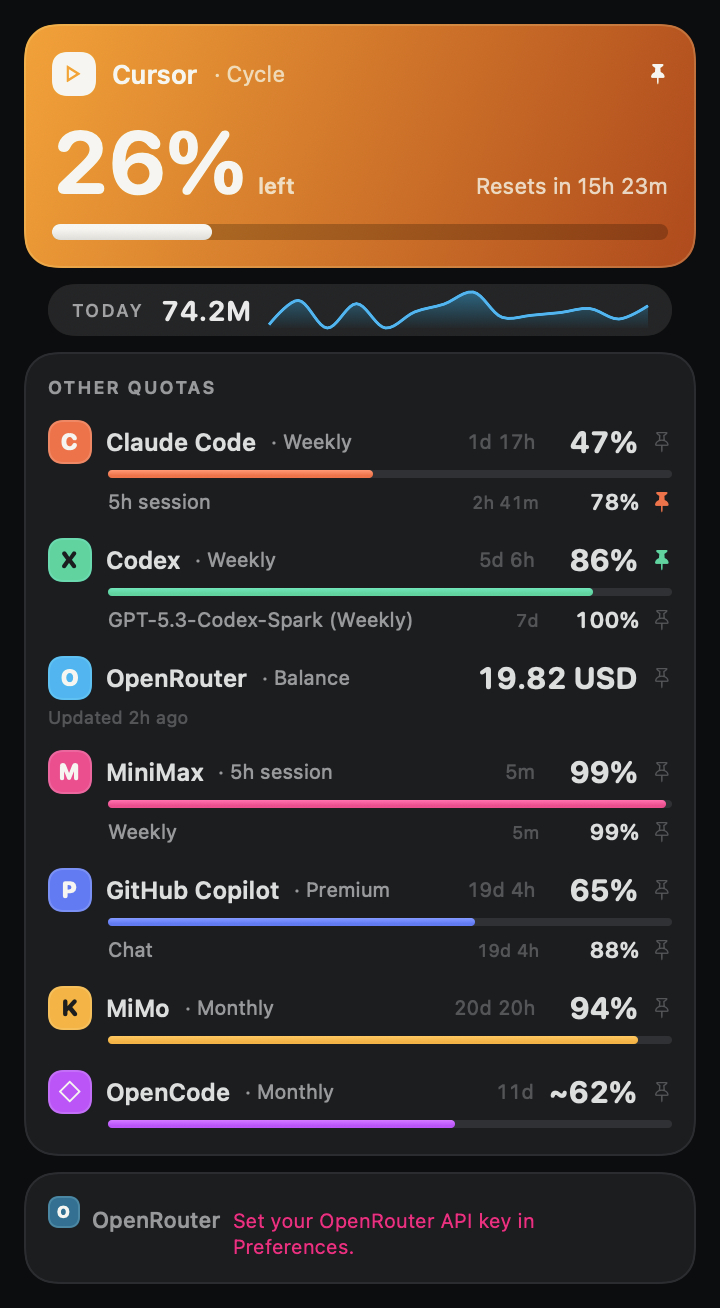
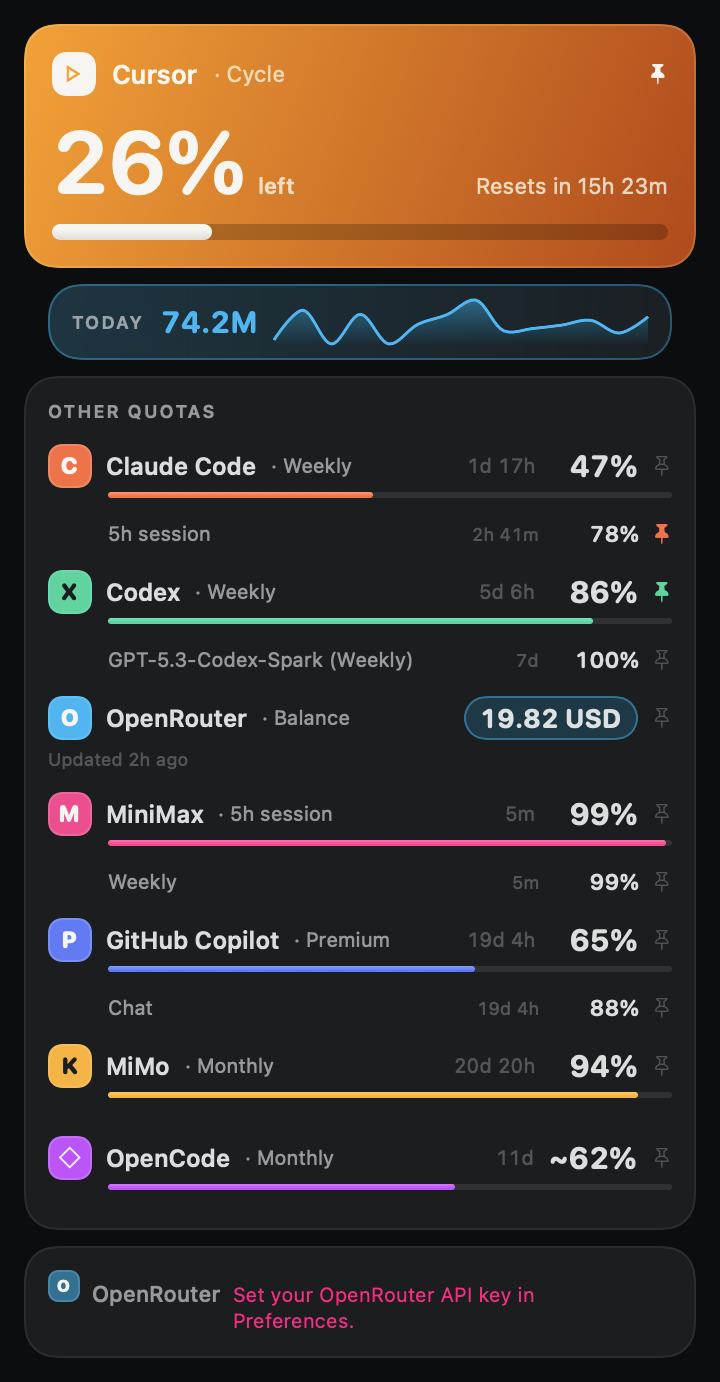
feat(ui): medidores nativos onde o nativo ganha, e polimento do popover
Passe de "parar de reinventar", decidido por imagem e não por princípio. Duas
sondas renderizaram cada medidor à mão ao lado do Gauge nativo pelos dois
caminhos de desenho do app (ImageRenderer, que faz os PNGs e a barra de menu, e
NSHostingView, que é a janela viva).

Trocados:
- ProgressRing vira Gauge .accessoryCircularCapacity — desenha nos dois
  caminhos, respeita .tint(), traz animação e acessibilidade de graça. A cor do
  streak passa de .orange (do sistema) para Theme.accent: o Gauge deriva o
  trilho da própria cor, e com laranja ele saía MARROM, cor que a paleta não
  tem.
- SparklineView vira Swift Charts — era um gráfico de linha montado com Path ao
  lado de um framework de gráficos já importado no alvo.
- RingGauge.swift apagado: código morto, sem nenhum call site.

Mantidos à mão, com motivo: os estilos LINEARES do Gauge não desenham sob
ImageRenderer (sai o retângulo com símbolo de proibido), ignoram .tint() no
AppKit vivo e ignoram .frame(height:). Isso derruba a cor de identidade por
provedor, as três alturas de barra e o trilho preto do bloco-herói. Ficam
QuotaCapsuleBar, ShareBar e o tracinho vertical do notch.

Polimento do popover:
- a faixa "Hoje" deixa o vidro e vira objeto declarado (charcoal + lavagem e
  fio Volt Cyan), igual nos dois mundos — sob render ela virava uma pastilha
  cinza;
- a barra de cada linha fica mais fina e colada na linha primária (ar
  assimétrico: 2pt acima, 8pt abaixo), acabando com a dúvida de a quem ela
  pertence;
[…]

diff --git a/Sources/OkTally/UI/PopoverView.swift b/Sources/OkTally/UI/PopoverView.swift
@@ -152,17 +152,38 @@ struct PopoverContentView: View {
             // Cronológico: hoje é o último elemento.
             let today = totals.last?.tokens ?? 0
             if today > 0 {
+                let shape = RoundedRectangle(cornerRadius: Theme.Radius.medium, style: .continuous)
                 HStack(spacing: Theme.Space.sm) {
                     SectionHeader(L("Hoje"))
                     Text(TokenAnalytics.compactTokens(today))
-                        .font(.system(size: 14, weight: .bold, design: .rounded))
+                        .font(.system(size: 15, weight: .bold, design: .rounded))
                         .monospacedDigit()
+                        .foregroundStyle(Theme.accent)
                     DailyTokensAreaChart(points: totals, color: Theme.accent)
-                        .frame(height: 18)
+                        .frame(height: 22)
                 }
                 .padding(.horizontal, Theme.Space.md)
-                .padding(.vertical, Theme.Space.xs)
-                .glassChrome()
+                .padding(.vertical, Theme.Space.sm)
+                // Charcoal + fio de Volt Cyan, e NÃO vidro. A faixa era a única peça do
+                // popover que mudava de identidade entre os dois mundos: viva ela era
+                // vidro, sob `ImageRenderer` o vidro cai no material e ela virava uma
+                // pastilha CINZA — do tamanho de um botão, sem cor, no meio de um
+                // dashboard de acento neon. E o próprio comentário do `Theme` já admitia
+                // que ela é a exceção do vidro por carregar número e gráfico, ou seja:
+                // conteúdo, não cromo. Aqui ela é um objeto declarado, idêntico nos dois
+                // mundos: fundo do mesmo degrau dos cards, lavagem ciano dando direção da
+                // esquerda para a direita e uma borda neon fina que a separa do fundo sem
+                // virar moldura.
+                // Ordem importa: o `.background` mais EXTERNO é o que fica mais atrás,
+                // então a lavagem ciano vem primeiro (colada no conteúdo) e o charcoal
+                // opaco por baixo dela. Invertido, o opaco cobriria a lavagem.
+                .background(
+                    shape.fill(LinearGradient(
+                        colors: [Theme.accent.opacity(0.16), Theme.accent.opacity(0.02)],
+                        startPoint: .leading, endPoint: .trailing))
+                )
+                .background(shape.fill(Theme.surface()))
+                .overlay(shape.strokeBorder(Theme.accent.opacity(0.38)))
                 .padding(.horizontal, Theme.Space.md)
             }
         }
@@ -397,7 +418,12 @@ private struct ProviderQuotaRow: View {
     var body: some View {
         let primary = windows.first
         let remaining = primary.flatMap { QuotaPresentation.remainingFraction($0.shape) }
-        VStack(alignment: .leading, spacing: 3) {
+        // `spacing: 0` com paddings explícitos, e não um espaçamento único: o ritmo
+        // vertical da linha é ASSIMÉTRICO de propósito (ver a barra abaixo), e um
+        // espaçamento uniforme distribuía o mesmo ar acima e abaixo da barra — que era
+        // justamente o que fazia a barra flutuar entre duas linhas em vez de pertencer a
+        // uma delas.
+        VStack(alignment: .leading, spacing: 0) {
             HStack(spacing: 7) {
                 IdentityChip(provider: provider)
                 Text(provider.displayName)
@@ -423,13 +449,25 @@ private struct ProviderQuotaRow: View {
                     }
                     // Fixed *minimum* width, trailing-aligned: the percentages line up
                     // in one column down the list so the eye scans them without
-                    // re-anchoring. A balance ("19.82 USD") simply spills to the left.
-                    Text(QuotaPresentation.remainingValueText(primary.shape))
-                        .font(.system(size: 15, weight: .bold, design: .rounded))
-                        .monospacedDigit()
-                        .foregroundStyle(QuotaPresentation.valueColor(remaining: remaining))
-                        .frame(minWidth: 44, alignment: .trailing)
-                        .layoutPriority(2)
+                    // re-anchoring.
+                    if remaining == nil {
+                        // Provedor só-saldo (OpenRouter): sem porcentagem ele não ganha
+                        // barra, e antes a linha inteira ficava órfã — um número solto na
+                        // coluna da direita, sem o traço de identidade que todas as
+                        // vizinhas tinham. O chip devolve a ele a mesma quantidade de
+                        // tinta: a cor do provedor aparece em ÁREA (fundo + fio), no lugar
+                        // onde as outras linhas a colocam na barra.
+                        BalanceChip(text: QuotaPresentation.remainingValueText(primary.shape),
+                                    identity: identity)
+                            .layoutPriority(2)
+                    } else {
+                        Text(QuotaPresentation.remainingValueText(primary.shape))
+                            .font(.system(size: 15, weight: .bold, design: .rounded))
+                            .monospacedDigit()
+                            .foregroundStyle(QuotaPresentation.valueColor(remaining: remaining))
+                            .frame(minWidth: 44, alignment: .trailing)
+                            .layoutPriority(2)
+                    }
                     PinButton(isPinned: isPinned(primary.label), identity: identity,
                               onPin: { onPin(primary.label) })
                 }
@@ -440,24 +478,32 @@ private struct ProviderQuotaRow: View {
             // Indented to the text column, not full-bleed: a bar that ran edge to edge
             // read as a rule *between* rows and stole the following secondary line.
             if let remaining {
-                QuotaCapsuleBar(remaining: remaining, color: identity, height: 4)
+                // Mais fina (3pt) e COLADA na linha que ela mede: 2pt acima contra 8pt
+                // abaixo. Na versão anterior a barra tinha 4pt e ar quase igual dos dois
+                // lados, e aí ela ficava equidistante entre a linha primária e a janela
+                // secundária — o olho tinha de decidir de quem ela era, o que custava um
+                // batimento de leitura por provedor. Com o ar todo empurrado para baixo a
+                // dúvida some: barra e linha de cima são um objeto, e o espaço em branco
+                // é que separa esse objeto da janela seguinte.
+                QuotaCapsuleBar(remaining: remaining, color: identity, height: 3)
                     // 30 = chip (22) + o spacing (7) da HStack acima, arredondado: a barra
                     // começa na coluna do NOME, não na do chip.
                     .padding(.leading, 30)
-                    // Asymmetric on purpose: the bar hugs the line it measures and keeps
-                    // its distance from the provider's secondary window below.
-                    .padding(.bottom, 2)
+                    .padding(.top, 2)
+                    .padding(.bottom, 8)
             }
             ForEach(windows.dropFirst(), id: \.label) { window in
                 SecondaryWindowLine(window: window, identity: identity,
                                     isPinned: isPinned(window.label),
                                     onPin: { onPin(window.label) })
+                    .padding(.top, 3)
             }
             if let meta = metaText {
                 Text(meta)
                     .font(.system(size: 9))
                     .foregroundStyle(.tertiary)
                     .lineLimit(1)
+                    .padding(.top, 4)
                     .help(L("Estimativa: tokens locais × tabela de preços do OpenRouter"))
             }
         }
@@ -494,6 +540,29 @@ private struct ProviderQuotaRow: View {
         fmt.maximumUnitCount = 2
         guard let s = fmt.string(from: age) else { return nil }
         return LF("Atualizado há %@", s)
+    }
+}
+
+/// Saldo em dinheiro numa pastilha da cor do provedor. Existe porque um provedor de
+/// crédito puro não tem fração para desenhar — e uma linha sem barra, no meio de uma lista
+/// onde todas as outras têm, lê como linha quebrada e não como "este é de outro tipo".
+///
+/// O número continua neutro (a mesma regra do resto do app: cor é exceção, reservada ao
+/// perigo); quem carrega a identidade é a pastilha em volta.
+private struct BalanceChip: View {
+    let text: String
+    let identity: Color
+
+    var body: some View {
+        Text(text)
+            .font(.system(size: 13, weight: .bold, design: .rounded))
+            .monospacedDigit()
+            .foregroundStyle(.primary)
+            .lineLimit(1)
+            .padding(.horizontal, 8)
+            .padding(.vertical, 3)
+            .background(Capsule().fill(identity.opacity(0.18)))
+            .overlay(Capsule().strokeBorder(identity.opacity(0.45)))
     }
 }
 

diff --git a/Sources/OkTally/UI/SparklineView.swift b/Sources/OkTally/UI/SparklineView.swift
@@ -1,11 +1,19 @@
 // Sources/OkTally/UI/SparklineView.swift
 import SwiftUI
+import Charts
 
-/// Minimal 24h trend line for a provider card: a normalized polyline with a soft fill
-/// underneath. No axes/labels — the ring and quota lines above carry the numbers; this
-/// only answers "subindo ou estável?" at a glance.
+/// Tendência de uso de um provedor (escala fixa 0–100%). Sem eixos nem rótulos: o número
+/// grande acima já carrega o valor; isto só responde "subindo ou estável?".
+///
+/// Desde a revisão "usar o que o SwiftUI já tem", isto é **Swift Charts** — a mesma
+/// biblioteca que o resto do app já usava em `DailyTokensAreaChart`,
+/// `StackedProviderBarChart` e `ProviderShareDonut`. A versão anterior era um
+/// `GeometryReader` com dois `Path` montados na mão (normalização, polilinha e polígono
+/// de preenchimento): um gráfico de linha reimplementado ao lado de um framework de
+/// gráficos que já estava importado no alvo. A interpolação suave e a animação entre
+/// séries vêm de graça, e a curva ficou mais macia que a polilinha de segmentos retos.
 struct SparklineView: View {
-    /// Used-percent values (0…100) in chronological order.
+    /// Valores de percentual USADO (0…100) em ordem cronológica.
     let points: [Double]
     let color: Color
     /// Altura da faixa. Um gráfico sem eixos não tem altura intrínseca — alguém precisa
@@ -14,45 +22,32 @@ struct SparklineView: View {
     var height: CGFloat = 20
 
     var body: some View {
-        GeometryReader { geo in
-            let normalized = normalizedPoints(in: geo.size)
-            if normalized.count >= 2 {
-                ZStack {
-                    fillPath(normalized, size: geo.size)
-                        .fill(color.opacity(0.12))
-                    linePath(normalized)
-                        .stroke(color.opacity(0.75), style: StrokeStyle(lineWidth: 1.2, lineCap: .round, lineJoin: .round))
-                }
-                .animation(.easeInOut(duration: 0.3), value: points)
-            }
+        Chart(Array(points.enumerated()), id: \.offset) { index, value in
+            AreaMark(
+                x: .value(L("Amostra"), index),
+                y: .value(L("Uso"), max(0, min(100, value)))
+            )
+            .interpolationMethod(.catmullRom)
+            .foregroundStyle(
+                LinearGradient(colors: [color.opacity(0.28), color.opacity(0.02)],
+                               startPoint: .top, endPoint: .bottom)
+            )
+            LineMark(
+                x: .value(L("Amostra"), index),
+                y: .value(L("Uso"), max(0, min(100, value)))
+            )
+            .interpolationMethod(.catmullRom)
+            .foregroundStyle(color.opacity(0.85))
+            .lineStyle(StrokeStyle(lineWidth: 1.4, lineCap: .round, lineJoin: .round))
         }
+        // Escala vertical FIXA 0–100: com o domínio automático do Swift Charts uma série
+        // baixa e plana seria esticada até o topo e leria como "no limite". Cravar o
+        // domínio é o que mantém "uso baixo e estável" com cara de uso baixo.
+        .chartYScale(domain: 0...100)
+        .chartXAxis(.hidden)
+        .chartYAxis(.hidden)
+        .chartLegend(.hidden)
+        .chartPlotStyle { $0.padding(.zero) }
         .frame(height: height)
-    }
-
-    private func normalizedPoints(in size: CGSize) -> [CGPoint] {
-        guard points.count >= 2, size.width > 0, size.height > 0 else { return [] }
-        let stepX = size.width / CGFloat(points.count - 1)
-        // Fixed 0…100 vertical scale so cards are comparable and a flat low line reads
-        // as "quase nada usado" instead of being stretched to full height.
-        return points.enumerated().map { index, value in
-            let clamped = max(0, min(100, value))
-            return CGPoint(x: CGFloat(index) * stepX, y: size.height * (1 - CGFloat(clamped / 100)))
-        }
-    }
-
-    private func linePath(_ pts: [CGPoint]) -> Path {
-        Path { path in
-            path.move(to: pts[0])
-            for p in pts.dropFirst() { path.addLine(to: p) }
-        }
-    }
-
-    private func fillPath(_ pts: [CGPoint], size: CGSize) -> Path {
-        Path { path in
-            path.move(to: CGPoint(x: pts[0].x, y: size.height))
-            for p in pts { path.addLine(to: p) }
-            path.addLine(to: CGPoint(x: pts[pts.count - 1].x, y: size.height))
-            path.closeSubpath()
-        }
     }
 }

diff --git a/Sources/OkTally/UI/DesignSystem/Components.swift b/Sources/OkTally/UI/DesignSystem/Components.swift
@@ -189,30 +189,37 @@ struct ShareBar: View {
     }
 }
 
-/// Anel reaproveitável (streak, cota). Traço grosso, como nas referências — um anel fino
-/// vira um arame e não sustenta o número no meio.
+/// Anel de capacidade. Desde a revisão "usar o que o SwiftUI já tem", isto é um `Gauge`
+/// NATIVO com `.accessoryCircularCapacity` — não mais dois `Circle()` com `.trim()`
+/// desenhados à mão. O nativo traz de graça a animação entre valores, o traço na
+/// espessura do sistema e a rotulagem de acessibilidade (o desenho antigo era um
+/// `Text` mudo dentro de um `ZStack`).
+///
+/// A troca foi decidida por imagem, não por princípio: renderizado lado a lado com o anel
+/// antigo, o `Gauge` sai com traço mais grosso e trilho na própria cor rebaixada, que é
+/// exatamente a leitura das referências — e, ao contrário dos estilos LINEARES do
+/// `Gauge`, o circular respeita `.tint()` e sobrevive ao `ImageRenderer`. Ver o relatório
+/// `.superpowers/popover-native-pass.md` para os dois PNGs de sonda.
 struct ProgressRing: View {
     let fraction: Double
     let color: Color
-    var lineWidth: CGFloat = 8
     var size: CGFloat = 44
     var label: String?
 
     var body: some View {
-        ZStack {
-            Circle().stroke(Theme.track(), lineWidth: lineWidth)
-            Circle()
-                .trim(from: 0, to: Theme.clampFraction(fraction))
-                .stroke(color.gradient, style: StrokeStyle(lineWidth: lineWidth, lineCap: .round))
-                .rotationEffect(.degrees(-90))
-                .animation(.easeInOut(duration: 0.3), value: fraction)
+        Gauge(value: Theme.clampFraction(fraction)) {
+            Text(L("Progresso"))
+        } currentValueLabel: {
             if let label {
                 Text(label)
-                    .font(.system(size: size * 0.32, weight: .bold, design: .rounded))
+                    .font(.system(size: size * 0.30, weight: .bold, design: .rounded))
                     .monospacedDigit()
                     .foregroundStyle(.primary)
             }
         }
+        .gaugeStyle(.accessoryCircularCapacity)
+        .tint(color)
+        .labelsHidden()
         .frame(width: size, height: size)
     }
 }

diff --git a/Sources/OkTally/UI/AnalyticsDashboardView.swift b/Sources/OkTally/UI/AnalyticsDashboardView.swift
@@ -105,9 +105,15 @@ struct AnalyticsDashboardView: View {
             VStack(spacing: Theme.Space.md) {
                 DashboardCard(padding: Theme.Space.md) {
                     HStack(spacing: Theme.Space.md) {
+                        // Volt Cyan, e não `.orange` do sistema: (1) laranja é o degrau
+                        // do MEIO da escala de perigo da marca, e uma sequência de dias
+                        // ativos não é um aviso; (2) o `Gauge` nativo deriva o trilho da
+                        // própria cor rebaixada, então com laranja o trilho saía MARROM —
+                        // uma cor que a paleta não tem. Com o acento, o trilho vira ciano
+                        // apagado, que é da família da marca.
                         ProgressRing(
                             fraction: longest > 0 ? Double(streak) / Double(longest) : 0,
-                            color: .orange,
+                            color: Theme.accent,
                             size: 42,
                             label: "\(streak)"
                         )
